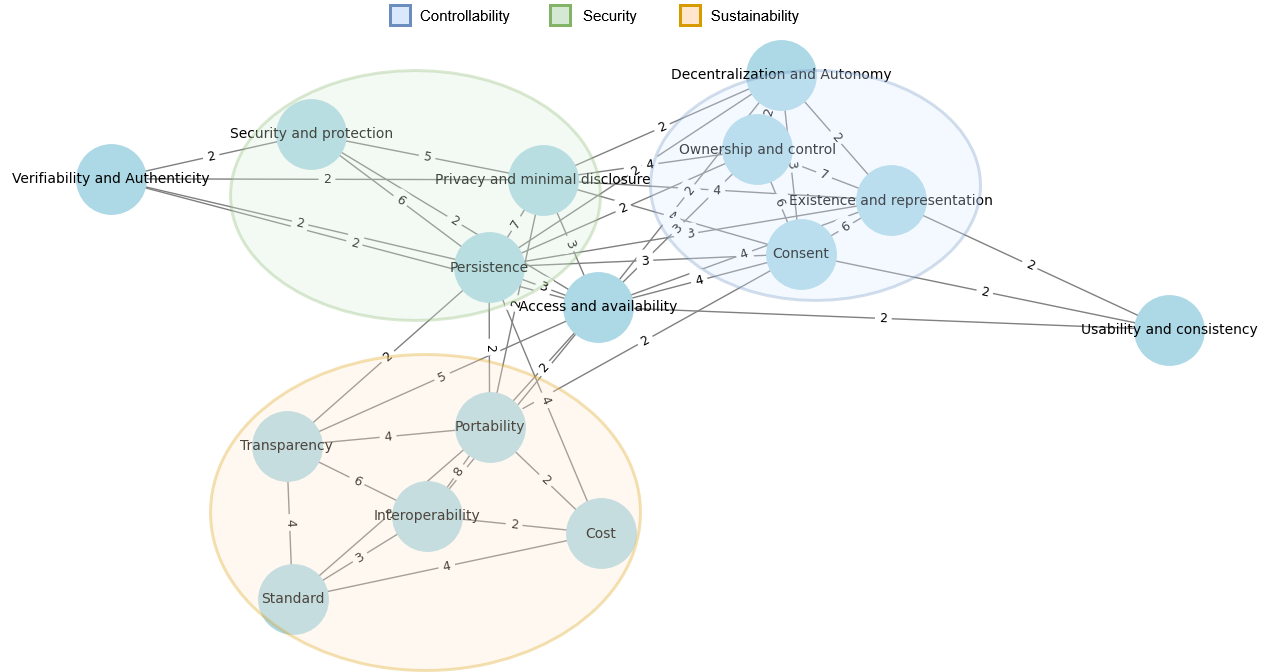
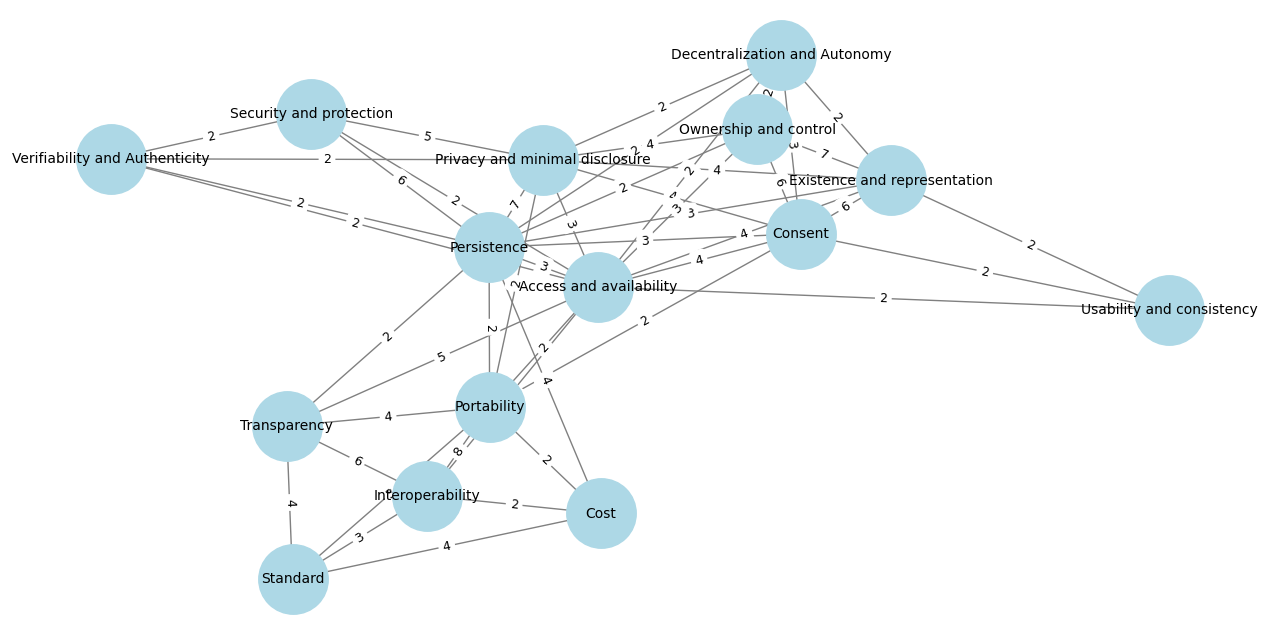
.

diff --git a/definition/program/clustering/graph_clustering/Graph_theory.py b/definition/program/clustering/graph_clustering/Graph_theory.py
@@ -1,0 +1,85 @@
+import pandas as pd
+import networkx as nx
+import matplotlib.pyplot as plt
+import seaborn as sns
+import community as community_louvain  # Louvain clustering
+from io import StringIO
+
+# CSV Data (Replace with actual CSV content)
+csv_data = """Graph Theory,,Existence and persistence,Consent,Ownership and control,Security and protection,Persistence,Privacy and minimal disclosure,Access and availability,Transparency,Portability,Interoperability,Cost,Standard,Decentralization and Autonomy,Verifiability and Authenticity,Usability and consistency
+Existence and persistence,, ,6,7,1,3,4,4,,1,,,,2,,2
+Consent,,6,,6,,3,4,4,,2,1,,,3,,2
+Ownership and control,,7,6,,,2,4,3,,,,,,2,,1
+Security and protection,,1,,,,6,5,2,1,1,1,,,,2,
+Persistence,,3,3,2,6,,7,3,2,2,1,1,1,2,2,
+Privacy and minimal disclosure,,4,4,4,5,7,,3,1,2,1,,,2,2,1
+Access and availability,,4,4,3,2,3,3,,5,2,4,1,,2,2,2
+Transparency,,,,,1,2,1,5,,4,6,4,4,,1,1
+Portability,,1,2,,1,2,2,2,4,,8,2,3,1,,
+Interoperability,,,1,,1,1,1,4,6,8,,2,3,1,,1
+Cost,,,,,,1,,1,4,2,2,,4,1,,
+Standard,,,,,,1,,,4,3,3,4,,,,
+Decentralization and Autonomy,,2,3,2,,2,2,2,,1,1,1,,,,1
+Verifiability and Authenticity,, ,,,2,2,2,2,1,,,,,,,
+Usability and consistency,,2,2,1,,,1,2,1,,1,,,1,,
+"""
+
+# Load the CSV data into a DataFrame
+df = pd.read_csv(StringIO(csv_data))
+
+# Clean the DataFrame: Set first column as index and remove unnecessary columns
+df_cleaned = df.set_index(df.columns[0]).drop(columns=["Unnamed: 1"], errors='ignore')
+df_cleaned.index.name = None
+df_cleaned = df_cleaned.apply(pd.to_numeric, errors='coerce')
+
+# Create a graph
+G = nx.Graph()
+
+# Add nodes (principles)
+principles = df_cleaned.index.tolist()
+G.add_nodes_from(principles)
+
+# Add edges based on heatmap values
+for i, principle1 in enumerate(principles):
+    for j, principle2 in enumerate(principles):
+        if i < j:  # Avoid duplicate edges
+            weight = df_cleaned.iloc[i, j]
+            if not pd.isna(weight) and weight > 0:  # Add edges only if weight is valid
+                G.add_edge(principle1, principle2, weight=weight)
+
+# Apply Louvain clustering to detect communities
+partition = community_louvain.best_partition(G)
+
+# Determine the number of clusters
+num_clusters = len(set(partition.values()))
+
+# Generate distinct colors for each cluster
+cluster_colors = sns.color_palette("husl", num_clusters)
+
+# Assign a color to each node based on its cluster
+node_colors = [cluster_colors[partition[node]] for node in G.nodes()]
+
+# Extract edge weights for thickness representation
+edge_widths = [d["weight"] / 2 for (u, v, d) in G.edges(data=True)]  # Scale edge thickness
+
+# Draw the graph
+plt.figure(figsize=(12, 10))
+pos = nx.spring_layout(G, seed=42, k=0.4)  # Force-directed layout
+
+# Draw edges with varying thickness
+nx.draw_networkx_edges(G, pos, alpha=0.6, width=edge_widths, edge_color="gray")
+
+# Draw nodes with cluster colors
+nx.draw_networkx_nodes(G, pos, node_color=node_colors, node_size=800, edgecolors="black")
+
+# Draw labels
+nx.draw_networkx_labels(G, pos, font_size=10, font_weight="bold")
+
+# Add legend for clusters
+legend_labels = {i: f"Cluster {i+1}" for i in range(num_clusters)}
+handles = [plt.Line2D([0], [0], marker="o", color="w", markerfacecolor=cluster_colors[i], markersize=10) for i in range(num_clusters)]
+plt.legend(handles, legend_labels.values(), title="Clusters", loc="best", fontsize=10)
+
+# Title
+plt.title("Graph Clustering of Principles (Louvain Method)", fontsize=14)
+plt.show()

diff --git a/definition/program/clustering/graph_clustering/Matrix.py b/definition/program/clustering/graph_clustering/Matrix.py
@@ -1,0 +1,53 @@
+import pandas as pd
+import matplotlib.pyplot as plt
+import seaborn as sns
+from io import StringIO
+
+# CSV Data (Replace with actual CSV content)
+csv_data = """Graph Theory,,Existence and persistence,Consent,Ownership and control,Security and protection,Persistence,Privacy and minimal disclosure,Access and availability,Transparency,Portability,Interoperability,Cost,Standard,Decentralization and Autonomy,Verifiability and Authenticity,Usability and consistency
+Existence and persistence,, ,6,7,1,3,4,4,,1,,,,2,,2
+Consent,,6,,6,,3,4,4,,2,1,,,3,,2
+Ownership and control,,7,6,,,2,4,3,,,,,,2,,1
+Security and protection,,1,,,,6,5,2,1,1,1,,,,2,
+Persistence,,3,3,2,6,,7,3,2,2,1,1,1,2,2,
+Privacy and minimal disclosure,,4,4,4,5,7,,3,1,2,1,,,2,2,1
+Access and availability,,4,4,3,2,3,3,,5,2,4,1,,2,2,2
+Transparency,,,,,1,2,1,5,,4,6,4,4,,1,1
+Portability,,1,2,,1,2,2,2,4,,8,2,3,1,,
+Interoperability,,,1,,1,1,1,4,6,8,,2,3,1,,1
+Cost,,,,,,1,,1,4,2,2,,4,1,,
+Standard,,,,,,1,,,4,3,3,4,,,,
+Decentralization and Autonomy,,2,3,2,,2,2,2,,1,1,1,,,,1
+Verifiability and Authenticity,, ,,,2,2,2,2,1,,,,,,,
+Usability and consistency,,2,2,1,,,1,2,1,,1,,,1,,
+"""
+
+# Load the CSV data into a DataFrame
+df = pd.read_csv(StringIO(csv_data))
+
+# Clean the DataFrame by setting the first column as index and removing unnecessary columns
+df_cleaned = df.set_index(df.columns[0]).drop(columns=["Unnamed: 1"], errors='ignore')
+df_cleaned.index.name = None
+
+# Convert all values to numeric, coercing errors to NaN
+df_cleaned = df_cleaned.apply(pd.to_numeric, errors='coerce')
+
+# Plot the heatmap with adjusted label alignment
+plt.figure(figsize=(12, 8))
+sns.heatmap(
+    df_cleaned, 
+    annot=True, 
+    cmap="coolwarm", 
+    fmt=".0f", 
+    linewidths=0.5, 
+    annot_kws={"size": 8}  # Smaller font for annotations
+)
+
+# Adjust font sizes and label alignment
+plt.title("", fontsize=14)
+plt.xlabel("Principles", fontsize=8, labelpad=8)  # Add x-axis label
+plt.ylabel("Principles", fontsize=8, labelpad=8)  # Add y-axis label
+plt.xticks(rotation=45, fontsize=8, ha="right")  # Align x-axis labels
+plt.yticks(rotation=0, fontsize=8)
+
+plt.show()

diff --git a/definition/program/clustering/graphs/greedy/Euclidean_distance.py b/definition/program/clustering/graphs/greedy/Euclidean_distance.py
@@ -1,0 +1,51 @@
+import seaborn as sns
+import matplotlib.pyplot as plt
+import pandas as pd
+from scipy.spatial.distance import pdist, squareform
+
+# Dati di input (come prima)
+data_list = [
+    [4, 3, 1, 1, 0, 0, 0, 0, 0, 0, 0, 0, 0, 0, 0, 0, 0, 0],
+    [5, 3, 0, 0, 1, 0, 0, 0, 0, 0, 0, 0, 0, 0, 0, 0, 0, 0],
+    [5, 1, 1, 0, 0, 0, 0, 0, 0, 0, 1, 0, 0, 0, 0, 0, 0, 1],
+    [0, 3, 0, 1, 0, 3, 0, 2, 1, 0, 0, 0, 1, 0, 0, 0, 0, 0],
+    [0, 0, 1, 0, 0, 0, 0, 7, 0, 0, 0, 0, 0, 0, 0, 0, 1, 0],
+    [1, 1, 1, 0, 0, 0, 0, 5, 0, 0, 0, 0, 0, 0, 0, 1, 0, 0],
+    [2, 1, 1, 0, 1, 0, 0, 4, 0, 2, 0, 0, 0, 0, 0, 0, 0, 1],
+    [0, 0, 1, 0, 0, 2, 1, 0, 0, 2, 1, 1, 0, 0, 0, 1, 0, 0],
+    [0, 0, 0, 0, 0, 3, 3, 1, 1, 0, 0, 0, 0, 0, 0, 1, 0, 0],
+    [0, 0, 0, 0, 0, 3, 1, 0, 1, 2, 1, 1, 0, 0, 0, 1, 1, 0],
+    [0, 0, 0, 0, 0, 0, 3, 0, 0, 0, 0, 0, 1, 1, 0, 1, 0, 0],
+    [0, 0, 0, 0, 0, 0, 3, 0, 0, 0, 0, 1, 0, 0, 1, 1, 0, 0],
+    [1, 1, 0, 0, 0, 0, 0, 0, 0, 0, 1, 0, 1, 0, 0, 0, 0, 0],
+    [0, 0, 0, 0, 0, 0, 0, 2, 0, 0, 0, 0, 0, 0, 0, 0, 0, 0],
+    [1, 0, 0, 1, 0, 0, 0, 0, 1, 0, 0, 0, 0, 0, 0, 0, 0, 0],
+]
+
+categories = [
+    "Existence and persistence", "Ownership and control", "Access and availability",
+    "Transparency", "Persistence", "Portability", "Interoperability",
+    "Consent", "Security and protection", "Privacy and minimal disclosure",
+    "Cost", "Standard", "Decentralization and Autonomy",
+    "Verifiability and Authenticity", "Usability and consistency"
+]
+
+# Convert to DataFrame
+df = pd.DataFrame(data_list, index=categories)
+
+# Compute Euclidean distances
+distance_matrix = squareform(pdist(df, metric='euclidean'))
+
+# Create the heatmap using seaborn
+plt.figure(figsize=(10, 8))
+sns.heatmap(distance_matrix, annot=True, cmap='YlGnBu', xticklabels=categories, yticklabels=categories, cbar=True)
+plt.title("")
+
+# Add axis labels indicating "Principles"
+plt.xlabel("Principles", fontsize=12)  # X-axis label
+plt.ylabel("Principles", fontsize=12)  # Y-axis label
+
+# Rotate X-axis labels by 45 degrees and adjust their alignment
+plt.xticks(rotation=45, ha='right')
+
+plt.show()

diff --git a/definition/Definition.md b/definition/Definition.md
@@ -160,25 +160,42 @@ The study of literature highlighted how scattered the domain of interest is and 
 In the absence of features for categorization, we can leverage a clustering technique to identify groups and assign names based on heuristics. Clustering is equivalent to breaking the graph into connected components, one for each cluster.[^rai] Clustering helps uncover similarities between objects that initially appear dissimilar, finding arbitrary shaped clusters, with a minimum input requirement. To achieve this, we treat our data as a set of points where each point is closer (or more similar) to one or more other points.[^rai]
 
 #### Clustering techniques
-We aim to divide data into groups of similar objects by aligning principles and categories through the lens of author mentions. Traditionally clustering techniques are not straightforward, nor canonical, so we have compared three different clustering techniques described in [^bishop][^park][^saxena][^rai]: Greedy,[^park] K-Means,[^saxena][^rai] and Graph Theory.[^saxena] We selected a local Greedy for its simplicity, K-Means for its ability to minimize intra-cluster distances and convenience in working with numericar values. Finally, the Graph Theory represents clusters as graphs. However, they all have limitations that we will discuss in the different subsections; for example, the K-Means has limitation in handling outliers and  Graph Theory in detecting overlapping clusters.[^saxena] We finally compared results from the three different techniques to decide our final groups.
+We aim to divide data into groups of similar objects by aligning principles and categories through the lens of author mentions. Traditionally clustering techniques are not straightforward, nor canonical, so we have compared three different clustering techniques described in [^bishop][^park][^saxena][^rai]: Greedy,[^park] K-Means,[^saxena][^rai] and Graph clustering.[^saxena] We selected a local Greedy for its simplicity, K-Means for its ability to minimize intra-cluster distances and convenience in working with numericar values. Finally, the Graph clustering represents clusters as graphs. However, they all have limitations that we will discuss in the different subsections; for example, the K-Means has limitation in handling outliers and  Graph clustering in detecting overlapping clusters.[^saxena] We finally compared results from the three different techniques to decide our final groups.
 
 ##### A) Greedy clustering
-The greedy local approach makes decisions based on the best immediate (local) choice at each step, aiming to achieve a globally optimal solution.[^bishop] it is simple and ease of use, so we manually applied this technique to the heatmap shown in Figure 9. This heatmap illustrates the alignment of principles and categories through the lens of author mentions. It is visualized as a matrix, where the intensity of blue represents the frequency of author mentions. Principles are listed along the rows, while categories span the columns. The values in each cell indicate the number of authors supporting a specific combination. A gradient from white to dark blue represents the range of values, from 0 (no mentions) to 7 (highest mentions).
+The greedy is a heuristic method that assigns points to clusters in a greedy fashion, making decisions based on the best immediate (local) choice at each step.[^bishop] It is simple and ease of use, often based on a similarity or distance metric. It can be easy to apply by visualizing data on a heatmap, as in Figure 9. Our heatmap illustrates the alignment of principles and categories through the lens of author mentions. It is visualized as a matrix, where the intensity of blue represents the frequency of author mentions. Principles are listed along the rows, while categories span the columns. The values in each cell indicate the number of authors supporting a specific combination. A gradient from white to dark blue represents the range of values, from 0 (no mentions) to 7 (highest mentions).
 
-The chart confirms the trend that we have already discussed with categories such as "Controllability,", "Security," "Foundational," but this time it is possible to highlight closely related principles. For example, "Persistence," "Security and protection," "Privacy and minimal disclosure" are closely related by the darkest color on the same column. Additionally, principles like "Existence and representation," "Ownership and control," and "Consent" emerge as critical themes, strongly linked to "Controllability" and "Foundational" elements. In contrast, categories such as "Compliance," "Adoption," and "Zero-cost" show limited engagement, indicating potential areas for further exploration or innovation.
+![Heatmap](/definition/images/clusters/greedy/Heatmap.png)
+*Figure 9: Author mentions across principles and categories.*
 
-We run the algorithm, by selecting the column in the heatmap with the highest number of occurrences and grouping rows that minimize the distance from that column. In this case, the darkest cell - representing the highest value - lies at the intersection of "Security and protection" and "Security." From there, we move up and down within the same column, selecting principles that close the gap, namely "Persistence," "Privacy and minimal disclosure," and "Verifiability and authenticity." These principles form the "Security" category, named after the column.
+###### Applying the greedy clustering
+Our greedy method is based on the definition of Euclidean distance between two rows of the heatmap. The Euclidean distance is the straight-line distance between two points in a multi-dimensional space.[^simson] Although it is not the only heuristic for matrices, other distances, such as Cosine similarity [^Rahutomo] and Jaccard similarity [^Ivchenko], can be applied. However, the Euclidean distance is simple to compute between two vectors **v** and **w** in an n-dimensional space is given by:[^smith]
+
+$$
+d(\mathbf{v}, \mathbf{w}) = \sqrt{\sum_{i=1}^{n} (v_i - w_i)^2} \quad \text{(1)}
+$$
+
+Where:
+- \( \mathbf{v} = (v_1, v_2, \dots, v_n) \) is the first vector.
+- \( \mathbf{w} = (w_1, w_2, \dots, w_n) \) is the second vector.
+- \( d(\mathbf{v}, \mathbf{w}) \) represents the Euclidean distance between the two vectors.
+
+The method starts by selecting the column in the heatmap with the highest number of occurrences and grouping rows that minimize the Euclidean distance between two rows. The identity matrix below reports the Euclidean distance between rows calculated through the formula (1). The 50th percentile is the heuristic that we use to divides our dataset into equal halves.
+
+- $50^{\text{th}}$ percentile $= 5.2$
+
+In this case, the darkest cell - representing the highest value - lies at the intersection of "Security and protection" and "Security." From there, we move up and down within the same column, selecting principles that close the gap, namely "Persistence," "Privacy and minimal disclosure," and "Verifiability and authenticity." These principles form the "Security" category, named after the column.
+
+![Heatmap](/definition/images/clusters/greedy/Euclidean_matrix.png)
+*Figure 10: Euclidean distance between rows.*
 
 We then repeat the process, moving to the first column and selecting the two rows with the highest values. Continuing to move up and down, we include the closest value: "Existence and representation." This group is named after its corresponding column: "Controllability." The final list of groups is presented in Table 5, along with a comparison of the other clustering results.
 
 ###### Discussion and limitations
 Although the greedy approach is efficient and effective for certain problems, it has a rigid structure that relies on the next local best step to find a locally optimal solution, while it may not account for the overall problem structure.[^rai] Since we do not know the data distribution, a locally optimal solution may differ from the globally optimal one.[^park] Furthermore, the greedy approach lacks backtracking or global adjustments - it considers only the present step without planning ahead, which can lead to suboptimal results. Therefore, we aim to explore alternative, not greedy, techniques that have a less rigid structure and may lead to different clusterings.
 
-![Heatmap](/definition/images/clusters/greedy/Heatmap.png)
-*Figure 9: Author mentions across principles and categories.*
-
 ##### B) K-Means
-K-Means is an iterative method that can find a local minimum but has a less rigid structure compared to a purely local greedy. It generates clusters in the form of centroids and minimize the intra-cluster distances; namely, the distance between objects of the same cluster.[^rai] It is popular for its simplicity and works conveniently with numerical attributes.[^rai] The letter k in K-Means represents the number of centroids, and is a parameter defined at priori. The K-Means iterates as follows:[^saxena]
+K-Means is an iterative method that can find a local minimum but has a less rigid structure compared to a purely local greedy. It generates partitions form initial centroids and minimize the intra-cluster distances; namely, the distance between objects of the same cluster.[^rai] It is popular for its simplicity and works conveniently with numerical attributes.[^rai] The letter k in K-Means represents the number of centroids, and is a parameter defined at priori. The K-Means iterates as follows:[^saxena]
 1. Initialization: Choose the number of clusters K. 
 2. Select k random points as initial centroids. These points represent initial group centroids.
 3. Calculate the objects distance to centroids.
@@ -259,13 +276,13 @@ Rectangles are in proximity of larger bubbles, which represent more citations fr
 ###### Final thoughts
 Besides the lack of an efficient and universal method to tune the value of k, our analysis led us to identify five groups of principles, which have been named based on past literature works. Despites the K-Means is influenced by the shape, size, and density of clusters,[^saxena][^rai] the number of clusters has been tuned through a comprehensive analysis of the dataset with the lens of the parameter k.
 
-To gain a better understanding of the data space, we use another clustering technique before concluding with a comparison of Greedy, K-Means, and Graph theory.
+To gain a better understanding of the data space, we use another clustering technique before concluding with a comparison of Greedy, K-Means, and Graph clustering.
 
-##### C) Graph Theory
-Graph theory represents points as vertices connected by edges. The edges are weighted based on the number of instances of articles from authors. For example, if three articles use the category 'Controllability,' the corresponding edge will have a weight of three. While this method is visually appealing and easy to understand, it does not scale well to hundreds of nodes.
+##### C) Graph clustering
+Graph clustering represents points as vertices connected by edges. The edges are weighted based on the number of instances of articles from authors. For example, if three articles use the category 'Controllability,' the corresponding edge will have a weight of three. While this method is visually appealing and easy to understand, it does not scale well to hundreds of nodes.
 
 ![Graph](/definition/images/clusters/graph_theory/Graph_theory.png)
-*Figure 7: *
+*Figure 15: *
 
 Figure 3 shows the final result of our grouping process. The group's name is derived from the literature.
 
@@ -573,7 +590,9 @@ The breakdown of responses to the 20 questions in the questionnaire.
 
 [^cucko]: Čučko, Š., Bećirović, Š., Kamišalić, A., Mrdović, S., & Turkanović, M. (2022). Towards the classification of self-sovereign identity properties. IEEE access, 10, 88306-88329.
 
-[^toth]:Toth, Kalman C., and Alan Anderson-Priddy. "Self-sovereign digital identity: A paradigm shift for identity." IEEE Security & Privacy 17.3 (2019): 17-27. 
+[^toth]: Toth, Kalman C., and Alan Anderson-Priddy. "Self-sovereign digital identity: A paradigm shift for identity." IEEE Security & Privacy 17.3 (2019): 17-27. 
+
+[^smith]: Smith, Karl (2013), Precalculus: A Functional Approach to Graphing and Problem Solving, Jones & Bartlett Publishers, p. 8, ISBN 978-0-7637-5177-7
 
 [^south]: South, Laura, et al. "Effective use of Likert scales in visualization evaluations: A systematic review." Computer Graphics Forum. Vol. 41. No. 3. 2022.
 
@@ -637,6 +656,10 @@ The breakdown of responses to the 20 questions in the questionnaire.
 
 [^w3c]: Verifiable Credentials Data Model v1.1. W3C Recommendation 03 March 2022. https://www.w3.org/TR/vc-data-model/, accessed on 2024-02-01
 
+[^simson]: Simson, Robert, ed. The elements of Euclid. Desilver, Thomas, 1838.
+
+[^Rahutomo]: Rahutomo, Faisal, Teruaki Kitasuka, and Masayoshi Aritsugi. "Semantic cosine similarity." The 7th international student conference on advanced science and technology ICAST. Vol. 4. No. 1. South Korea: University of Seoul, 2012.
+
 [^muhle]: Mühle, Alexander, et al. "A survey on essential components of a self-sovereign identity." Computer Science Review 30 (2018): 80-86. 
 
 [^sheldrake]: Sheldrake, Philip. "Generative identity—beyond self-sovereignty." 2019, 
@@ -654,3 +677,5 @@ The breakdown of responses to the 20 questions in the questionnaire.
 [^bishop]: Bishop, Christopher M. Pattern recognition and machine learning by Christopher M. Bishop. Springer Science+ Business Media, LLC, 2006.
 
 [^robinson]: Robinson, Joan. "What are the questions?." What are the Questions and Other Essays. Routledge, 2016. 2-32.
+
+[^Ivchenko]: Ivchenko, G. I., and S. A. Honov. "On the jaccard similarity test." Journal of Mathematical Sciences 88 (1998): 789-794.
